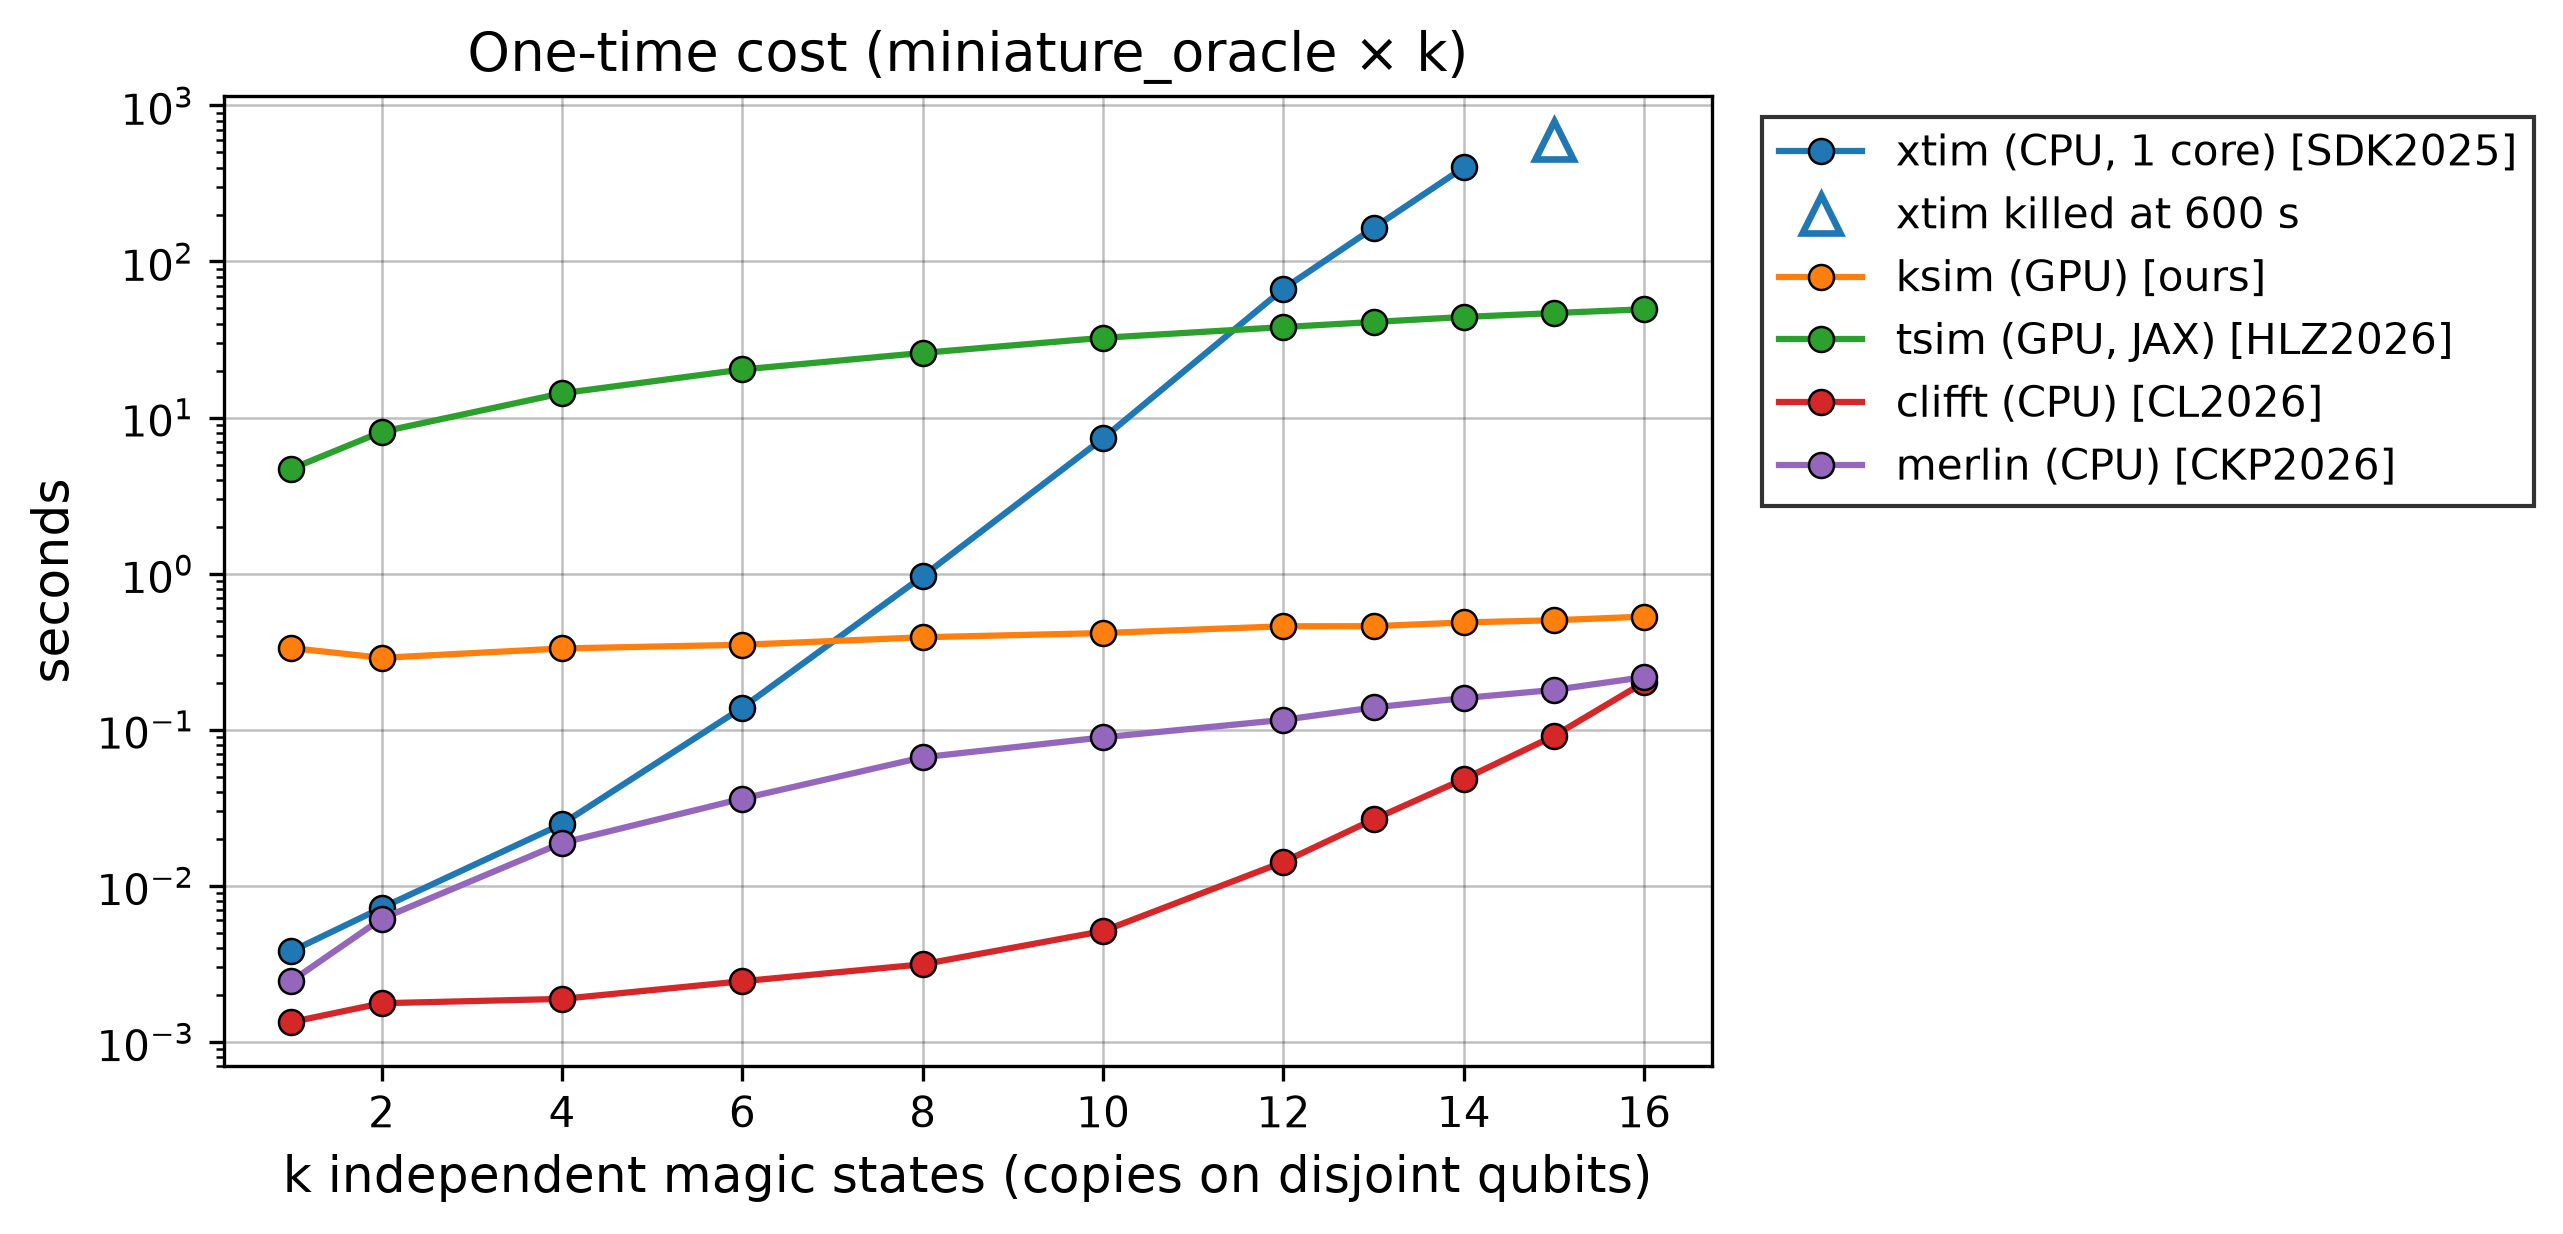
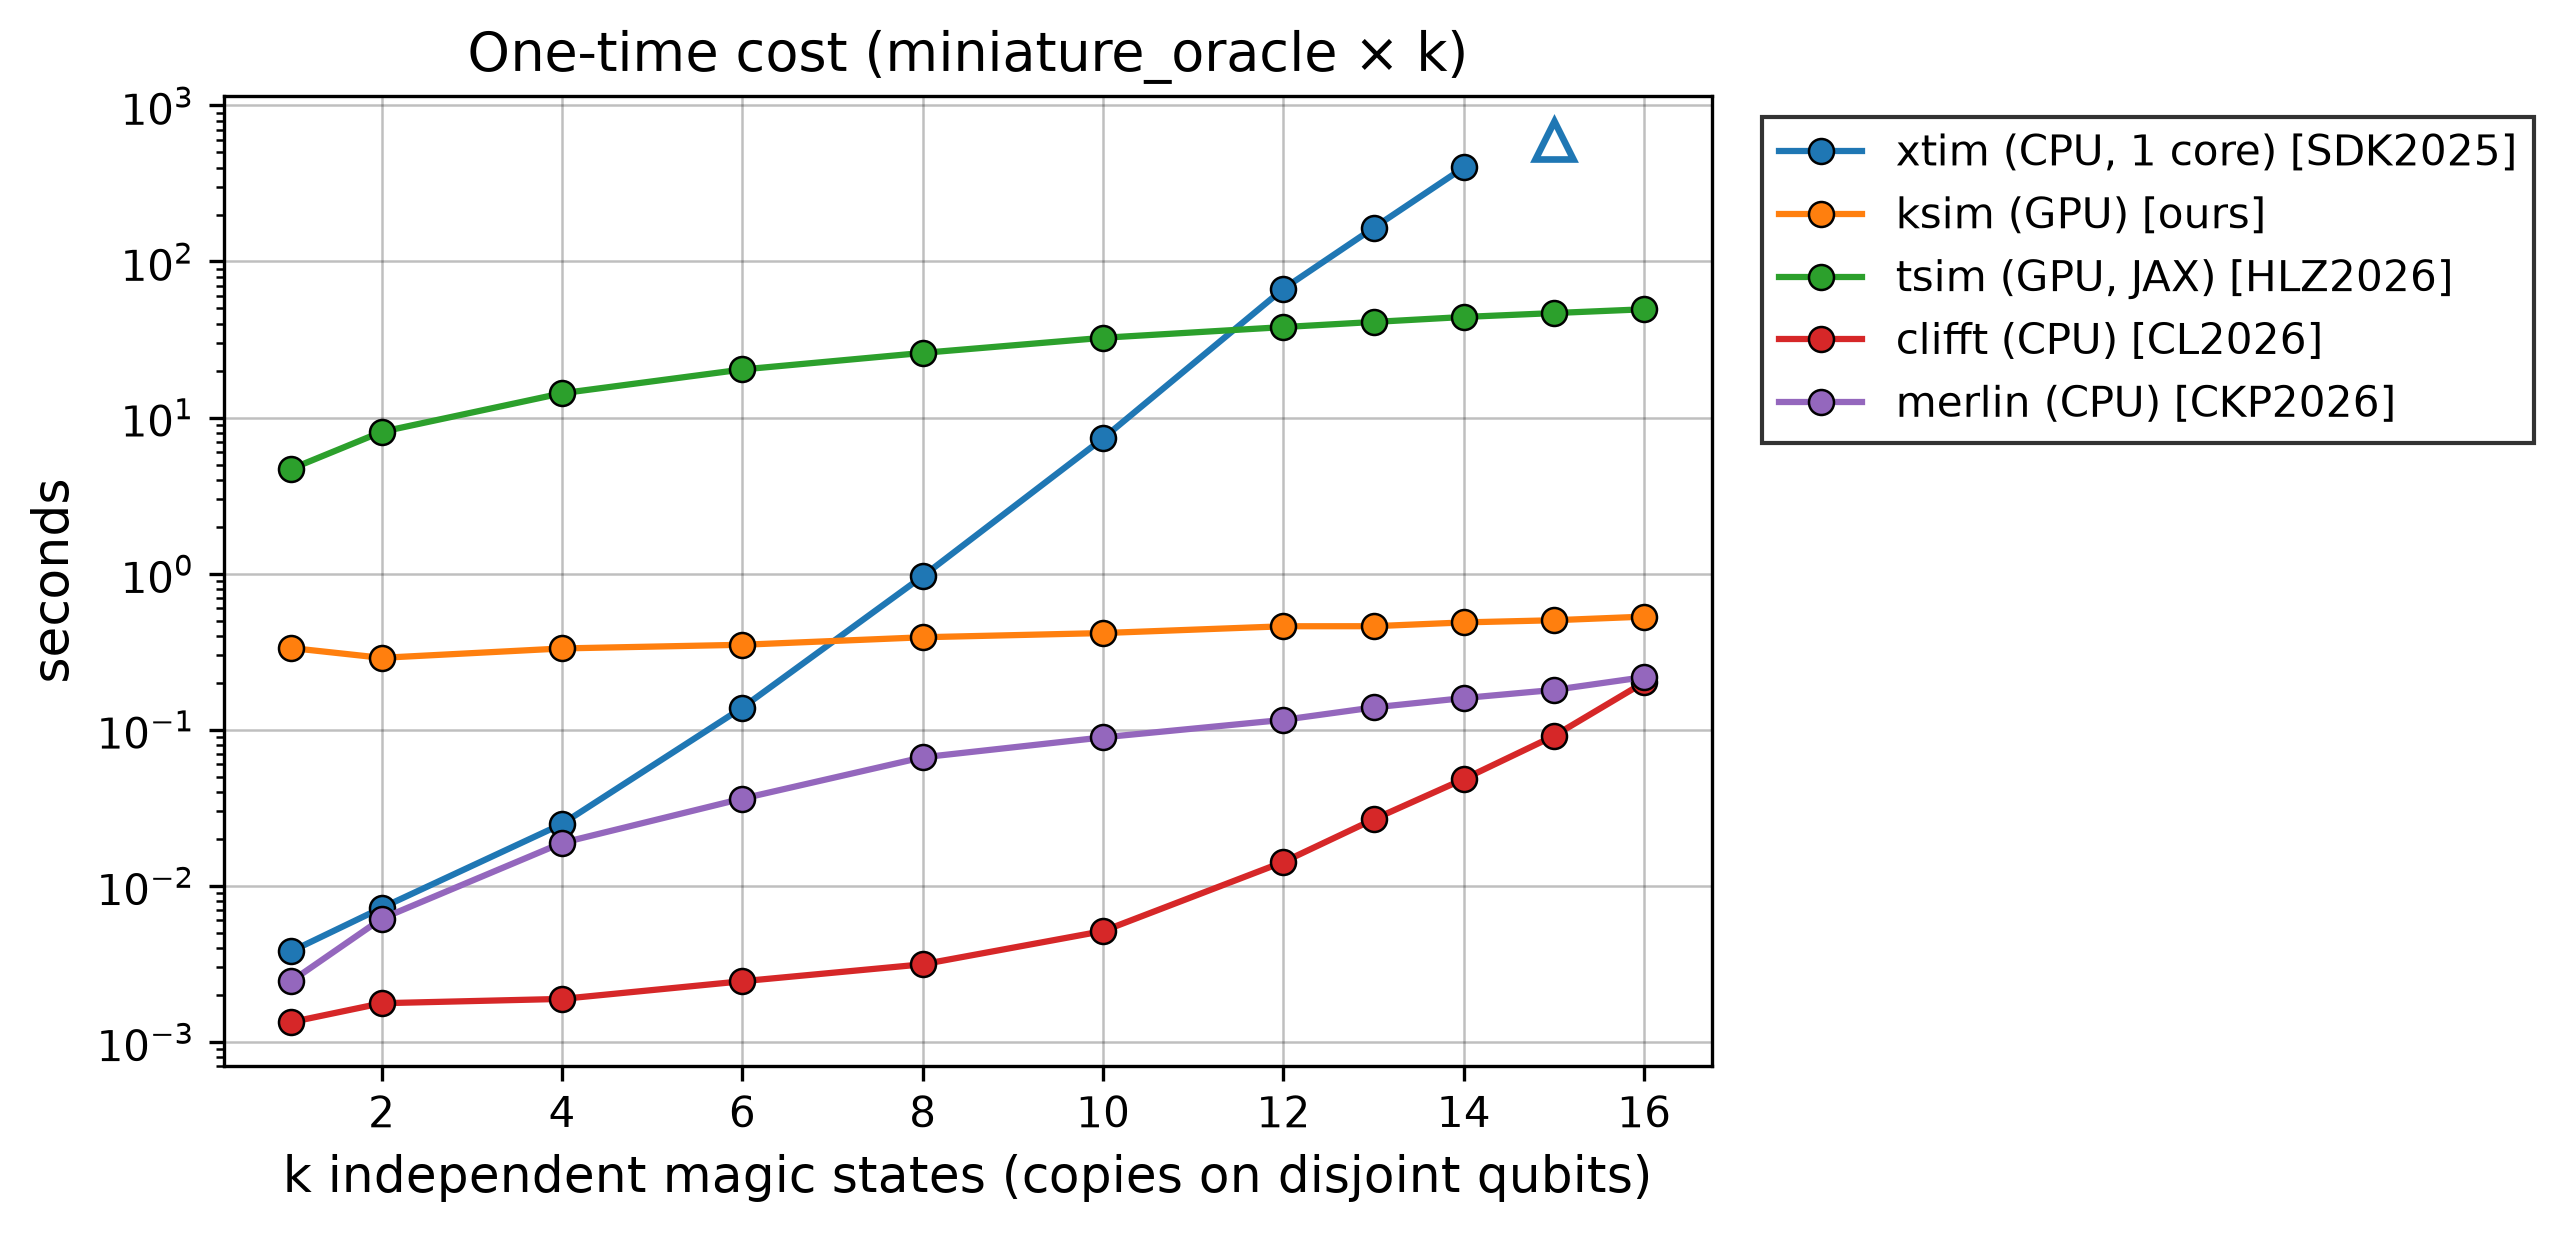
plot_scaling: killed-build markers kept, dropped from the legends

Changed region(s): [[0.6867, 0.154, 0.9676, 0.4311]]

diff --git a/benchmarks/plot_scaling.py b/benchmarks/plot_scaling.py
@@ -117,7 +117,7 @@ def main(argv=None):
         ks = killed(rows, e)
         if ks:
             ax.plot(ks, [y] * len(ks), ls="none", marker="^", ms=9, mfc="white",
-                    mec=COLOURS[e], mew=1.6, label=f"{e} killed at {limit:.0f} s")
+                    mec=COLOURS[e], mew=1.6)
 
     fig, ax = frame(f"One-time cost ({head})", XLABEL, "seconds")
     for e in engines:
@@ -180,8 +180,7 @@ def main(argv=None):
         for e in engines:
             if e in row and row[e] is None:
                 ax.plot([limit], [min(u for _, u, _ in pts)], ls="none", marker=">", ms=9,
-                        mfc="white", mec=COLOURS[e], mew=1.6,
-                        label=f"{e}: setup > {limit:.0f} s (killed)")
+                        mfc="white", mec=COLOURS[e], mew=1.6)
         save(fig, ax, out / f"scaling_pareto_k{k}.png")
     return 0
 
